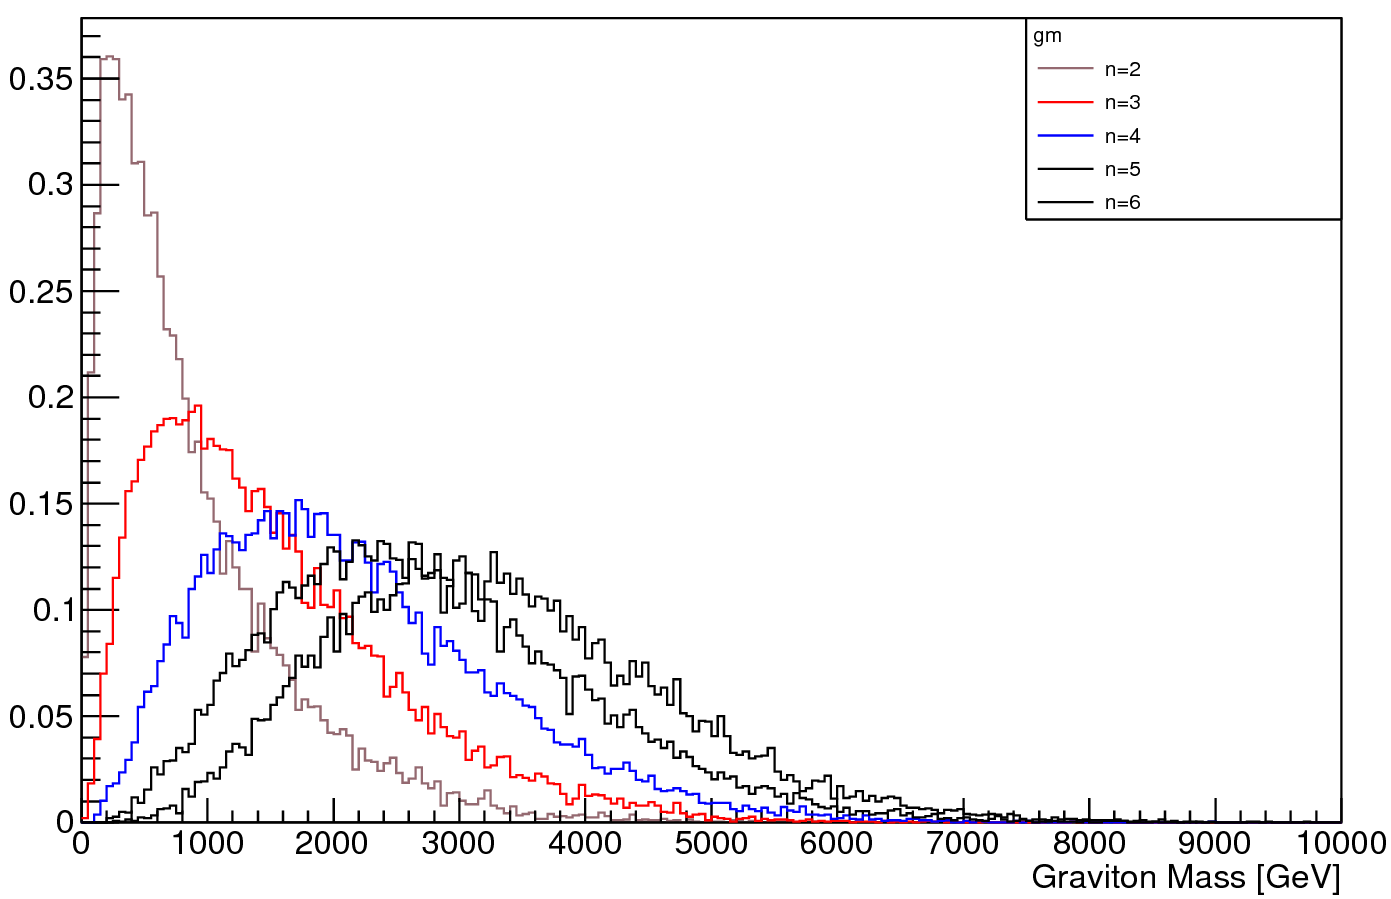
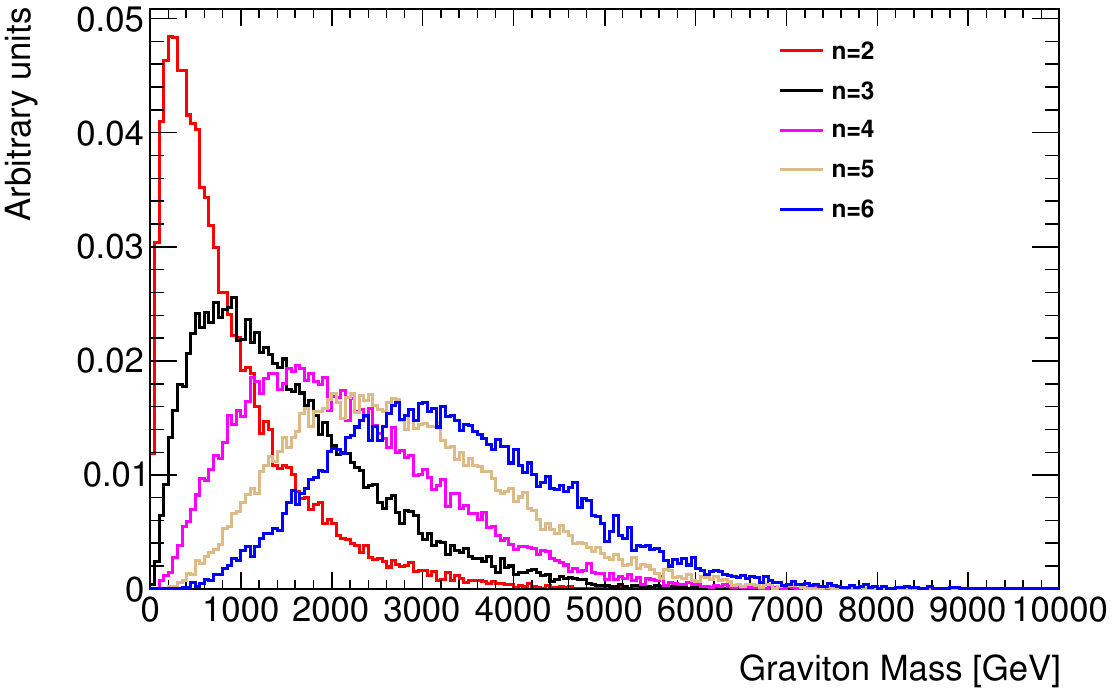
images/plot_sigma_visible_nD3_SR700.pdf images/plot_sigma_visible_nD6_SR700.pdf monojet_sig_2016/add_truncation.tex references.bib images/graviton_mass.png: Implementing comments to these sections

Changed region(s): [[0.0, 0.0, 1.0, 0.9986], [0.183, 0.3026, 0.2135, 0.3631]]

diff --git a/monojet_sig_2016/add_truncation.tex b/monojet_sig_2016/add_truncation.tex
@@ -5,26 +5,61 @@ center of mass energy available at \gls{lhc}, the validity of the predictions of
 the \gls{eft} become unreliable. For this reason two different sets of limits
 have been calculated, one where the full cross section is used and the other
 where it is weighted down by a factor $\md^4/\hat{s}^2$ for events where
-$\hat{s} > \md^2$, where $\hat{s}$ is the center of mass energy of the
-partons~\cite{LEDWeightFactor}.
+$\hat{s} > \md^2$, where $\hat{s}$ is the center of mass energy of the initial
+partons involved in \cref{fig:add_feynman}~\cite{LEDWeightFactor}.
 
 As an illustration of the problem \cref{fig:shat} shows the $\hat{s}$
-distribution in the regions where $250 < \met < 300$~GeV and
-$700 < \met < 800$~GeV for the ADD n = 3 and 6 models. The straight line
-indicates the excluded $\md$ value before any weighting of the events. This
-figure shows that a fraction of the selected events in the signal regions have a
-value of $\hat{s}$ that exceeds the limit of validity of the effective field
-theory. The general idea of weighting the events is therefore introduced. It
-consists in re-evaluating the limit on $\md$ in a conservative way, by
-prescribing that all events with $\hat{s}$ exceeding the validity limit should
-only weakly contribute to the limit on $\md$. Moreover \cref{fig:shat} shows
-that the bulk of the $\hat{s}$ distribution moves towards higher energy values
-both in the case when the number of extra dimensions and the $\met$ are
-increased. The first case is understood considering the growing of the graviton
-mass with the number of extra dimensions showed in \cref{fig:graviton_mass}:
-the production of gravitons with higher mass require higher momentum of the
-partons. A similar argument holds when the $\met$ is increased, higher values of
-missing energy imply the production of heavier gravitons.
+distribution for \gls{add} events surviving a signal region selection with
+$250 < \met < 300$~GeV and $700 < \met < 800$~GeV for the n = 3 and 6 extra
+dimensions models. The straight line indicates the excluded $\md$ value before
+any weighting of the events. This figure shows that a fraction of the selected
+events in the signal regions have a value of $\hat{s}$ that exceeds the limit of
+validity of the effective field theory. The general idea of weighting the events
+is therefore introduced. It consists in re-evaluating the limit on $\md$ in a
+conservative way, by prescribing that all events with $\hat{s}$ exceeding the
+validity limit should only weakly contribute to the limit on $\md$. Moreover
+\cref{fig:shat} shows that the bulk of the $\hat{s}$ distribution moves towards
+higher energy values both in the case when the number of extra dimensions and
+the $\met$ are increased. The first dependence is understood considering the
+growth of the graviton mass with the number of extra dimensions showed in
+\cref{fig:graviton_mass}: the production of gravitons with higher mass requires
+higher $\hat{s}$ of the initial partons. A similar argument holds when the
+$\met$ selection is increased, higher values of missing energy imply the
+production of higher momentum gravitons. As shown in \cref{fig:shat}, only a
+small fraction of events is beyond the \gls{eft} validity limit. The visible
+event yields are recomputed in each $\met$ bin (as defined in
+\cref{sec:event-selection-1}) and for each $n$ and, as hinted by
+\cref{fig:shat}, the effect of the re-weighting is negligible.
+\begin{figure}[!h]
+  \centering
+  \begin{subfigure}{.48\linewidth}
+    \includegraphics[width=\linewidth]{plot_nD3_SR250}
+    \caption{ADD n = 3 for the low $\met$ region.}
+    \label{fig:shat_n3_250}
+  \end{subfigure}
+  \begin{subfigure}{.48\linewidth}
+    \includegraphics[width=\linewidth]{plot_nD3_SR700}
+    \caption{ADD n = 3 for the high $\met$ region.}
+    \label{fig:shat_n3_700}
+  \end{subfigure}
+  \begin{subfigure}{.48\linewidth}
+    \includegraphics[width=\linewidth]{plot_nD6_SR250}
+    \caption{ADD n = 6 for the low $\met$ region.}
+    \label{fig:shat_n6_250}
+  \end{subfigure}
+  \begin{subfigure}{.48\linewidth}
+    \includegraphics[width=\linewidth]{plot_nD6_SR700}
+    \caption{ADD n = 6 for the high $\met$ region.}
+    \label{fig:shat_n6_700}
+  \end{subfigure}
+  \caption{Generated $\hat{s}$ distribution with (blue) and without (red)
+    weighting of the events for which $\hat{s} > \md^2$ for the signal regions
+    where $250 < \met < 300$~GeV and $700 < \met < 800$~GeV for the ADD n = 3
+    and 6 models for the 13~TeV \textsc{pythia8} Monte Carlo samples. A vertical
+    line indicating the value of the excluded value of $\md$ is also reported in
+    the figure.}
+  \label{fig:shat}
+\end{figure}
 
 \cref{fig:vis_sigma_trunc} shows the visible cross section as a function of the
 fundamental Planck scale $\md$ in the $250 < \met < 300$~GeV and
@@ -33,41 +68,15 @@ the visible cross section for all the $\hat{s}$, while in the dashed one a
 $\md^4/\hat{s}^2$ weighting factor is applied for events where
 $\hat{s} > \md^2$, it can be seen that for $\md = 0$ all events get weighted
 down since $\hat{s} > \md^2 = 0$. The black square is the nominal $\md$ value of
-the generated sample.
-\begin{figure}[!h]
-  \centering
-  \begin{subfigure}{.48\linewidth}
-    \includegraphics[width=\linewidth]{plot_nD3_SR250}
-    \caption{ADD n = 3 for low $\met$ region.}
-    \label{fig:shat_n3_250}
-  \end{subfigure}
-  \begin{subfigure}{.48\linewidth}
-    \includegraphics[width=\linewidth]{plot_nD3_SR700}
-    \caption{ADD n = 3 for high $\met$ region.}
-    \label{fig:shat_n3_700}
-  \end{subfigure}
-  \begin{subfigure}{.48\linewidth}
-    \includegraphics[width=\linewidth]{plot_nD6_SR250}
-    \caption{ADD n = 6 for low $\met$ region.}
-    \label{fig:shat_n6_250}
-  \end{subfigure}
-  \begin{subfigure}{.48\linewidth}
-    \includegraphics[width=\linewidth]{plot_nD6_SR700}
-    \caption{ADD n = 6 for high $\met$ region.}
-    \label{fig:shat_n6_700}
-  \end{subfigure}
-  \caption{Generated $\hat{s}$ distribution with and without weighting of the
-    events for which $\hat{s} > \md^2$ for the signal regions where
-    $250 < \met < 300$~GeV and $700 < \met < 800$~GeV for the ADD n = 3 and 6
-    models for the 13~TeV \gls{mc}. A vertical line indicating the value of the
-    excluded value of $\md$ is also reported in the figure.}
-  \label{fig:shat}
-\end{figure}
+the generated sample. The ratio of the dashed red curve over the blue one is
+used to scale down the exclusion limits in each bin of $\met$ in order to take
+into account the effect of the validity of the \gls{eft}. This effect is however
+smaller than the uncertainties on the exclusions and is thus neglected.
 \begin{figure}[!h]
   \centering
   \includegraphics[width=.8\linewidth]{graviton_mass}
-  \caption{Simulated graviton masses for the five different simulated extra
-    dimensions.}
+  \caption{Simulated heavy graviton masses for 2 to 6 extra dimensions in
+    \gls{add} models computed with \textsc{pythia8}~\cite{OllePhDThesis}.}
   \label{fig:graviton_mass}
 \end{figure}
 \begin{figure}[!h]
@@ -87,7 +96,7 @@ the generated sample.
     and 6 models. The solid line is the visible cross section for all the
     $\hat{s}$, while in the dashed one a $\md^4/\hat{s}^2$ weighting factor is
     applied for events where $\hat{s} > \md^2$. The black square is the nominal
-    $\md$ value of the generated sample.}
+    $\md$ value of the generated sample as listed in \cref{tab:sigma_md_ref}.}
   \label{fig:vis_sigma_trunc}
 \end{figure}
 %%% Local Variables:
